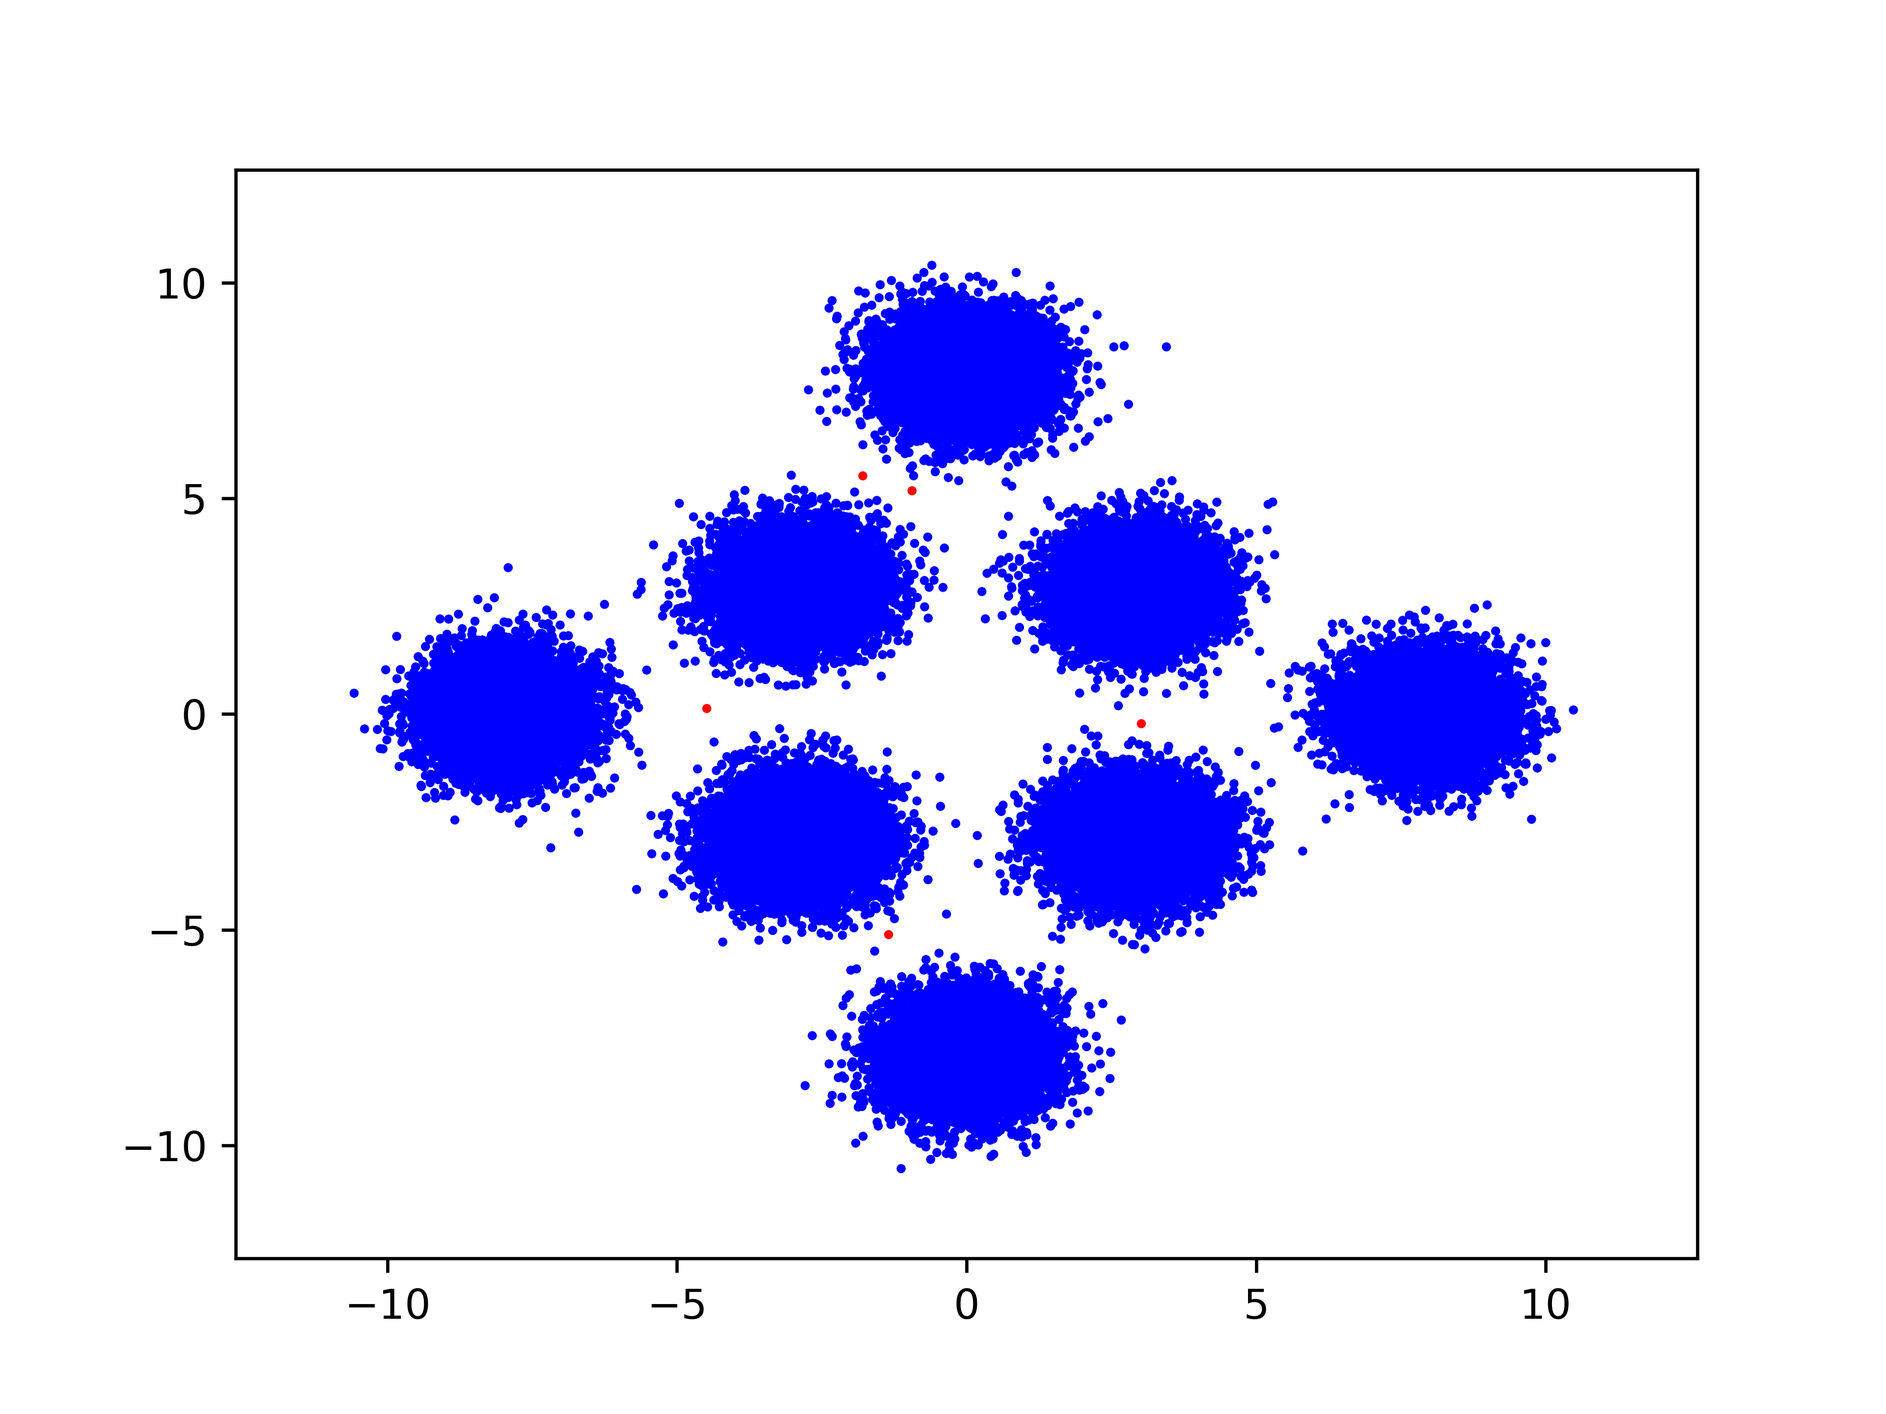
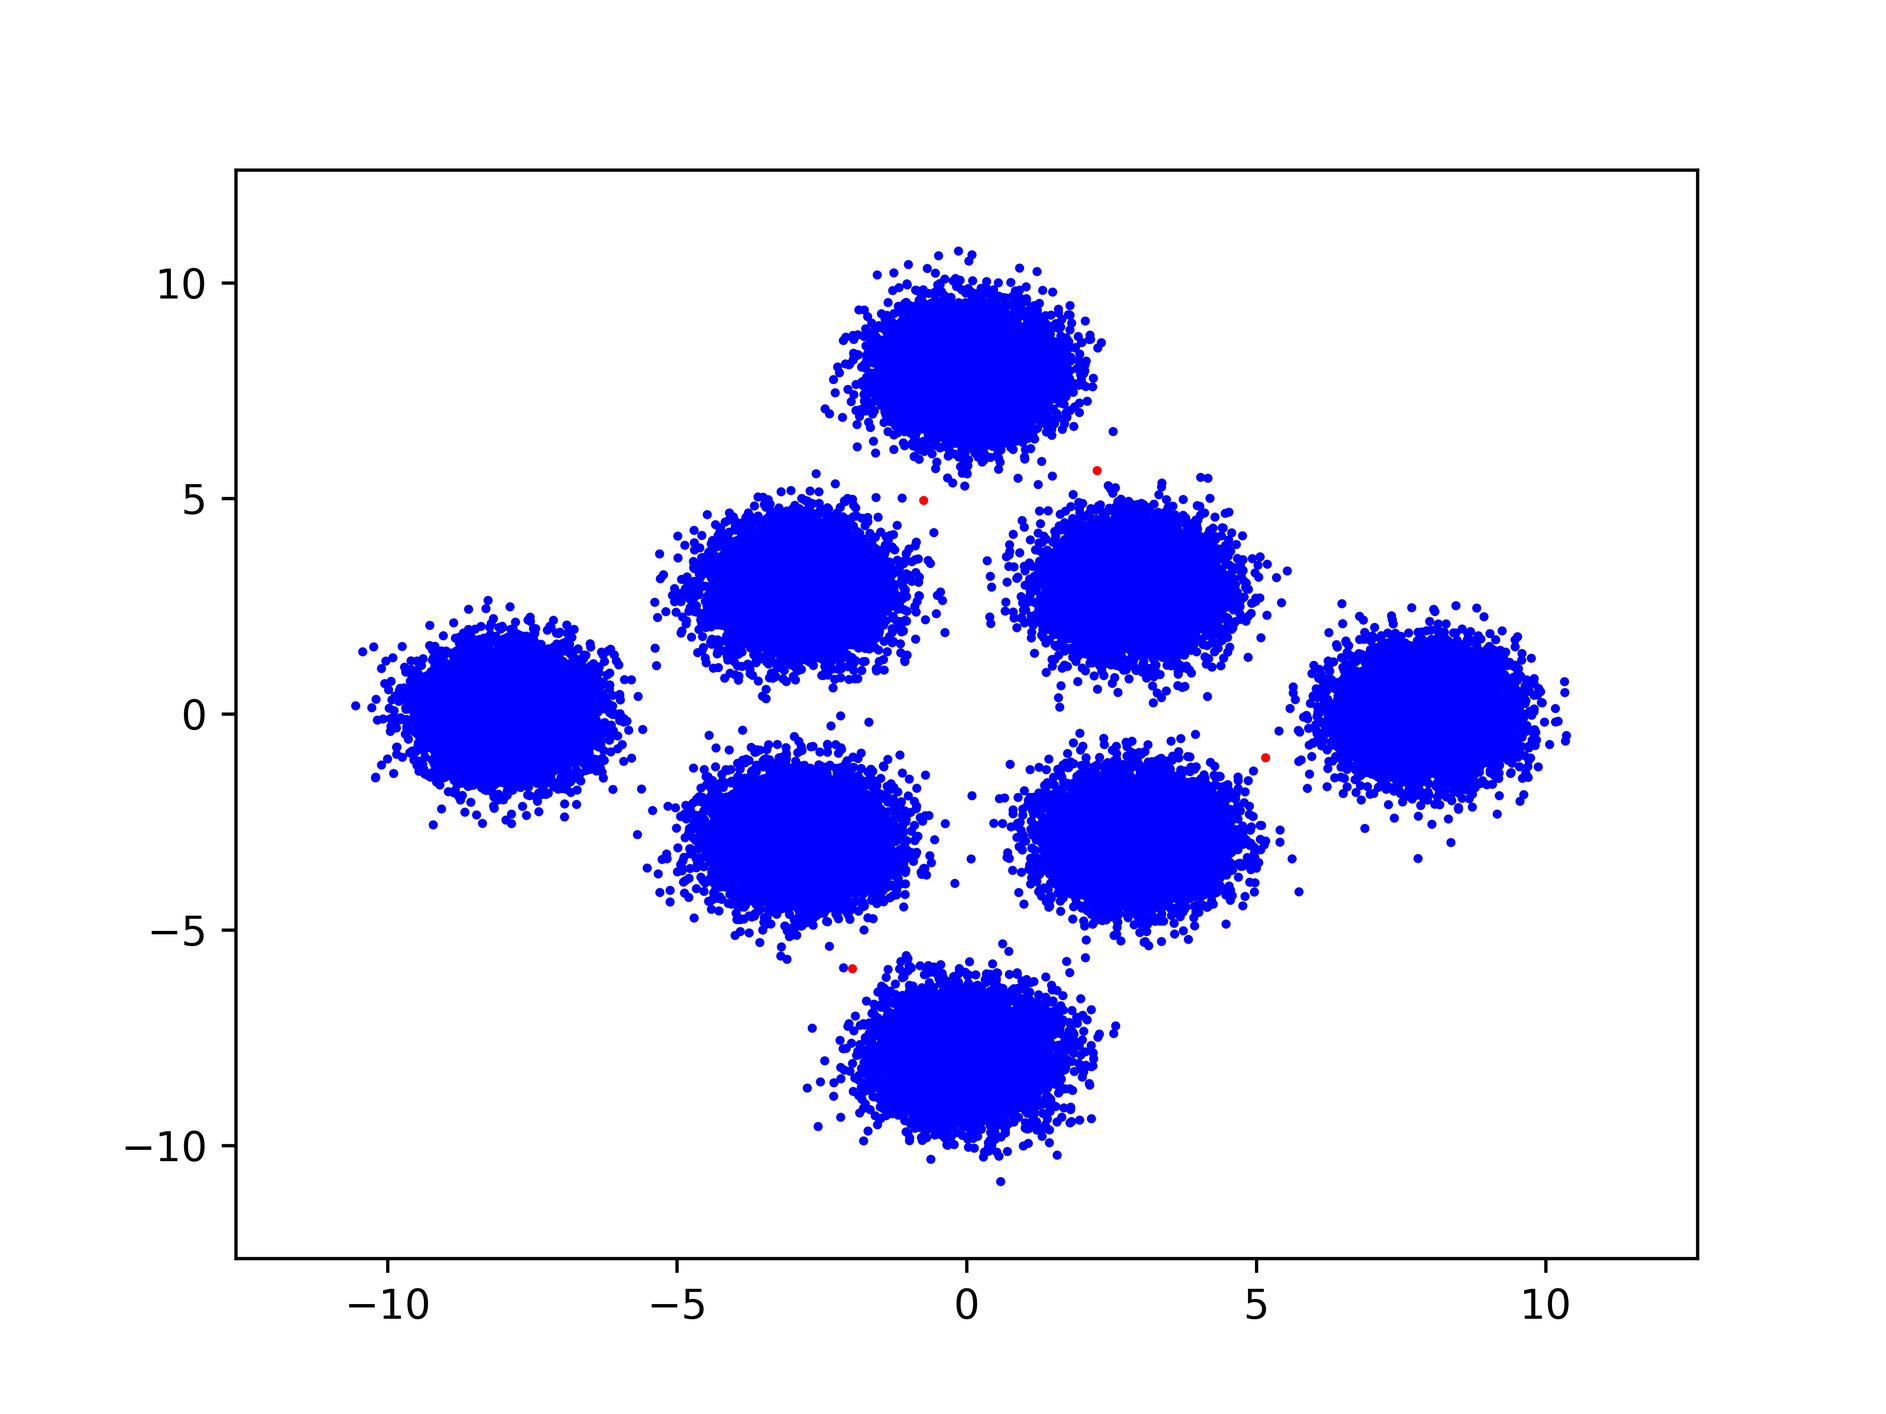
进一步完成了问题2 - 2加中继节点的任务

Changed region(s): [[0.1875, 0.1875, 0.8125, 0.8438], [0.5625, 0.2188, 0.5938, 0.3125], [0.8125, 0.4688, 0.8438, 0.5312]]

diff --git a/question2/question2_2.py b/question2/question2_2.py
@@ -4,9 +4,9 @@ from question2.my_util import read_population_economic_from_excel, read_distance
 from question2.road import Road
 
 
-def compute_population(a, b):
+def compute_joint_population(a, b):
     """
-    给出光纤连接的两个区域的人口数，计算光纤的人口比重
+    给出光纤连接的两个区域的人口数，两个区域的联合
     :param a:
     :param b:
     :return:
@@ -14,13 +14,13 @@ def compute_population(a, b):
     return math.sqrt(a * b)
 
 
-def compute_value(road):
+def compute_value(rd):
     """
     计算一条路的价值
-    :param road:
+    :param rd: Road对象
     :return:
     """
-    return road.weight * road.capacity * road.population
+    return rd.weight * rd.capacity * rd.population
 
 
 def get_capacity(length):
@@ -35,7 +35,7 @@ def get_capacity(length):
 
 
 def get_max_value_road(road_list):
-    value_list = np.array([compute_value(road) for road in road_list])
+    value_list = np.array([compute_value(a_road) for a_road in road_list])
     return road_list[value_list.argmax(axis=0)]
 
 
@@ -63,7 +63,7 @@ def convert_distance_to_level(length):
 
 if __name__ == '__main__':
     num_links = 33
-
+    triple_points_road_list = []  # 记录三个节点的路径所经过的每一个节点
     distance_matrix, city_list = read_distance_from_excel()
     print(city_list)
     city_population_list, city_gdp_aver_list = read_population_economic_from_excel()
@@ -71,7 +71,7 @@ if __name__ == '__main__':
     for i in range(len(city_population_list)):
         for j in range(i + 1, len(city_population_list)):
             city_pair_population_tuple_list.append((i, j, math.sqrt(city_population_list[i] * city_population_list[j])))
-    city_pair_population_tuple_list = sorted(city_pair_population_tuple_list, key=lambda item: item[2], reverse=True)
+    city_pair_population_tuple_list = sorted(city_pair_population_tuple_list, key=lambda pair: pair[2], reverse=True)
     print(city_pair_population_tuple_list)
     adj_matrix = [[0 for _ in range(12)] for _ in range(12)]  # 存储整个图的邻接矩阵
     all_road_info_list = []  # 保存所有路的信息的列表
@@ -83,7 +83,7 @@ if __name__ == '__main__':
             if i == j:
                 continue
             road = Road(start=i, end=j, weight=1, capacity=get_capacity(distance_matrix[i][j]),
-                        population=compute_population(city_population_list[i], city_population_list[j]))
+                        population=compute_joint_population(city_population_list[i], city_population_list[j]))
             all_road_info_list.append(road)
     # print("所有可能的路径:")
     # for item in sorted(all_road_info_list, key=lambda asd:compute_value(asd), reverse=True):
@@ -127,69 +127,111 @@ if __name__ == '__main__':
     print("为了满足连通图而架设的", len(cur_road_info_list), "条光纤如下所示：")
     for item in cur_road_info_list:
         print(city_list[item.start], city_list[item.end], compute_value(item))
-    print(len(cur_road_info_list), "条光纤的总价值之和为", sum([compute_value(item) for item in cur_road_info_list]))
-    print("邻接矩阵为:")
-    print(np.array(adj_matrix))
+    total_value = sum([compute_value(item) for item in cur_road_info_list])
+    print(len(cur_road_info_list), "条光纤的总价值之和为", total_value)
+    # print("邻接矩阵为:")
+    # print(np.array(adj_matrix))
     # for item in all_road_info_list:
     #     print(item)
     while len(cur_road_info_list) < num_links:
-        if_add_one_link = False  # 如果一次循环中没有加入任何的连接，说明再也不能加边，应该终止循环
-        print(len(cur_road_info_list))
-        for city_tuple_list in city_pair_population_tuple_list:
-            # 如果加入了一条边，就应该终止当前的循环，并且在城市对中删掉这一对城市
-            loop_flag = True  # for 的循环标志位
+        max_value_road = get_max_value_road(all_road_info_list)
+        print('当前连接个数为:', len(cur_road_info_list))
+        if_add_one_link = False  # 如果一次循环中没有加入任何的中转节点连接，则加入一条直接连接的边
+        city_tuple_list = city_pair_population_tuple_list[0]
+        # 获得当前城市对的两个城市编号，以及两个城市的联合人口权重
+        tmp_a, tmp_b, tmp_population = city_tuple_list[0], city_tuple_list[1], city_tuple_list[2]
+        # 如果当前城市对中两个城市已经直接连接，那么不需要再考虑中继节点,换下一组节点
+        while adj_matrix[tmp_a][tmp_b] == 1:
+            city_pair_population_tuple_list.remove(city_tuple_list)
+            city_tuple_list = city_pair_population_tuple_list[0]
             # 获得当前城市对的两个城市编号，以及两个城市的联合人口权重
             tmp_a, tmp_b, tmp_population = city_tuple_list[0], city_tuple_list[1], city_tuple_list[2]
-            # 如果当前城市对中两个城市已经直接连接，那么不需要再考虑中继节点
-            if adj_matrix[tmp_a][tmp_b] != 1:
-                print('查找', city_list[tmp_a], city_list[tmp_b], '是否有可能通过中继节点连接')
-                # 将两个城市间的直线距离映射到0,1,2,3
-                cur_distance_level = convert_distance_to_level(distance_matrix[tmp_a][tmp_b])
-                # 遍历12个城市，尝试查询中间节点
-                for middle in range(12):
-                    # 如果中间节点与这两个城市任意一个重复，换下一个中间节点
-                    if middle == tmp_a or middle == tmp_b:
-                        continue
-                    # 中间节点和a没有直接连接，和b有直接连接
-                    if adj_matrix[tmp_a][middle] != 1 and adj_matrix[tmp_b][middle] == 1:
-                        # a和middle、b和middle的直线距离级别必须都高于a和b之间的距离级别，才有加边的必要
-                        if convert_distance_to_level(distance_matrix[tmp_a][middle]) > cur_distance_level and convert_distance_to_level(distance_matrix[tmp_b][middle]) > cur_distance_level:
-                            # 从所有的路的列表中获得a和middle之间的路的信息
-                            road = get_road_from_list(tmp_a, middle, all_road_info_list)
-                            # 当前路列表加入一条
-                            cur_road_info_list.append(road)
-                            # 全部路列表中减去一条
-                            all_road_info_list.remove(road)
-                            print("加入", city_list[road.start], '-', city_list[road.end], '这条连接')
-                            adj_matrix[tmp_a][middle] = 1
-                            adj_matrix[middle][tmp_a] = 1
-                            # 加入了一条边之后，停止for循环
-                            loop_flag = False
-                            # 加入了一条边，删除这条边两端的城市组成的城市对
-                            city_pair_population_tuple_list.remove(city_tuple_list)
-                            if_add_one_link = True
-                            break
-                    # 中间节点和a有直接连接，和b没有直接连接
-                    if adj_matrix[tmp_a][middle] == 1 and adj_matrix[tmp_b][middle] != 1:
-                        # a和middle、b和middle的直线距离级别必须都高于a和b之间的距离级别，才有加边的必要
-                        if convert_distance_to_level(distance_matrix[tmp_a][middle]) > cur_distance_level and convert_distance_to_level(distance_matrix[tmp_b][middle]) > cur_distance_level:
-                            # 从所有的路的节点中获取middle和b之间的路的权重
-                            road = get_road_from_list(tmp_b, middle, all_road_info_list)
-                            # 当前路列表加入一条
-                            cur_road_info_list.append(road)
-                            # 全部路的列表删除这一条
-                            all_road_info_list.remove(road)
-                            print("加入", city_list[road.start], '-', city_list[road.end], '这条连接')
-                            adj_matrix[tmp_b][middle] = 1
-                            adj_matrix[middle][tmp_b] = 1
-                            # 加入了一条边之后，停止for循环
-                            loop_flag = False
-                            if_add_one_link = True
-                            # 加入了一条边，删除这条边两边的城市对
-                            city_pair_population_tuple_list.remove(city_tuple_list)
-                            break
-            if not loop_flag:
+        print('查找', city_list[tmp_a], city_list[tmp_b], '是否有可能通过中继节点连接')
+        # 将两个城市间的直线距离映射到0,1,2,3
+        cur_distance_level = convert_distance_to_level(distance_matrix[tmp_a][tmp_b])
+        # 遍历12个城市，尝试查询中间节点
+        for middle in range(12):
+            # 如果中间节点与这两个城市任意一个重复，换下一个中间节点
+            if middle == tmp_a or middle == tmp_b:
+                continue
+            # 判断这两个点是否和所有的中转路径中的任意两个点重复
+            if_triple_roads_occupy = False
+            for triple_road in triple_points_road_list:
+                # 如果这两个点和所有的中转路径中的任意两个点重复，不加这条路径
+                if (tmp_a in triple_road and middle in triple_road) or \
+                        (tmp_b in triple_road and middle in triple_road):
+                    # 如果重复，放弃对当前城市对的遍历
+                    if_triple_roads_occupy = True
+                    break
+            if if_triple_roads_occupy:
                 break
+            # 中间节点和a没有直接连接，和b有直接连接
+            if adj_matrix[tmp_a][middle] != 1 and adj_matrix[tmp_b][middle] == 1:
+                # a和middle、b和middle的直线距离级别必须都高于a和b之间的距离级别，才有加边的必要
+                if convert_distance_to_level(distance_matrix[tmp_a][middle]) > \
+                        cur_distance_level and convert_distance_to_level(distance_matrix[tmp_b][middle]) > \
+                        cur_distance_level:
+                    # 如果ab的人口数乘积大于a,middle人口数乘积，才加中继节点
+                    if compute_joint_population(city_population_list[tmp_a],
+                                                city_population_list[tmp_b]) > \
+                            compute_joint_population(city_population_list[tmp_a], city_population_list[middle]):
+                        # 从所有的路的列表中获得a和middle之间的路的信息
+                        road = get_road_from_list(tmp_a, middle, all_road_info_list)
+                        # 当前路列表加入一条
+                        cur_road_info_list.append(road)
+                        # 全部路列表中减去一条
+                        all_road_info_list.remove(road)
+                        print("加入", city_list[road.start], '-', city_list[road.end], '这条连接(有中继)\n')
+                        adj_matrix[tmp_a][middle] = 1
+                        adj_matrix[middle][tmp_a] = 1
+                        # 加入了一条边，删除这条边两端的城市组成的城市对
+                        city_pair_population_tuple_list.remove(city_tuple_list)
+                        triple_points_road_list.append([tmp_a, middle, tmp_b])
+                        # print('triple', triple_points_road_list)
+                        # 是否添加了一条边的标志位置为True
+                        if_add_one_link = True
+                        break
+            # 中间节点和a有直接连接，和b没有直接连接
+            if adj_matrix[tmp_a][middle] == 1 and adj_matrix[tmp_b][middle] != 1:
+                # a和middle、b和middle的直线距离级别必须都高于a和b之间的距离级别，才有加边的必要
+                if convert_distance_to_level(distance_matrix[tmp_a][middle]) > cur_distance_level and \
+                        convert_distance_to_level(distance_matrix[tmp_b][middle]) > cur_distance_level:
+                    if compute_joint_population(city_population_list[tmp_a],
+                                                city_population_list[tmp_b]) > \
+                            compute_joint_population(city_population_list[tmp_b], city_population_list[middle]):
+                        # 从所有的路的节点中获取middle和b之间的路的权重
+                        road = get_road_from_list(tmp_b, middle, all_road_info_list)
+                        # 当前路列表加入一条
+                        cur_road_info_list.append(road)
+                        # 全部路的列表删除这一条
+                        all_road_info_list.remove(road)
+                        print("加入", city_list[road.start], '-', city_list[road.end], '这条连接(有中继)\n')
+                        adj_matrix[tmp_b][middle] = 1
+                        adj_matrix[middle][tmp_b] = 1
+                        # 是否添加了一条边的标志位置为True
+                        triple_points_road_list.append([tmp_a, middle, tmp_b])
+                        # print('triple', triple_points_road_list)
+                        if_add_one_link = True
+                        # 加入了一条边，删除这条边两边的城市对
+                        city_pair_population_tuple_list.remove(city_tuple_list)
+                        break
         if not if_add_one_link:
-            break
-    print('目前地图中一共有', len(cur_road_info_list), '条边')
+            ab_road = get_road_from_list(tmp_a, tmp_b, all_road_info_list)
+
+            if compute_value(ab_road) > compute_value(max_value_road):
+                print("加入", city_list[ab_road.start], '-', city_list[ab_road.end], '这条连接(直接连接)\n')
+                # 在城市对删除这一对
+                city_pair_population_tuple_list.remove(city_tuple_list)
+                # 在邻接矩阵中表明这两个点已经连接
+                adj_matrix[ab_road.start][ab_road.end] = 1
+                adj_matrix[ab_road.end][ab_road.start] = 1
+                cur_road_info_list.append(ab_road)
+                all_road_info_list.remove(ab_road)
+            else:
+                print("加入", city_list[max_value_road.start], '-', city_list[max_value_road.end], '这条连接(直接连接)\n')
+                # 在邻接矩阵中表明这两个点已经连接
+                adj_matrix[max_value_road.start][max_value_road.end] = 1
+                adj_matrix[max_value_road.end][max_value_road.start] = 1
+                cur_road_info_list.append(max_value_road)
+                all_road_info_list.remove(max_value_road)
+    print('\n目前地图中一共有', len(cur_road_info_list), '条边\n')

diff --git a/question2/test.py b/question2/test.py
@@ -1,0 +1,25 @@
+from question2.my_util import read_population_economic_from_excel
+import math
+
+
+city_population_list, _ = read_population_economic_from_excel()
+double_city_population = []
+quadra_city_population = []
+for i in range(len(city_population_list)):
+    for j in range(i + 1, len(city_population_list)):
+        double_city_population.append(math.sqrt(city_population_list[i] * city_population_list[j]))
+
+for i in range(len(city_population_list)):
+    for j in range(i + 1, len(city_population_list)):
+        for k in range(j + 1, len(city_population_list)):
+            for n in range(k + 1, len(city_population_list)):
+                tmp_city_list = [i, j, k, n]
+                tmp_value_list = []
+                for p in range(len(tmp_city_list)):
+                    for q in range(p + 1, len(tmp_city_list)):
+                        tmp_value_list.append(math.sqrt(city_population_list[tmp_city_list[p]] *
+                                                                city_population_list[tmp_city_list[q]]))
+                quadra_city_population.append(sum(tmp_value_list))
+
+print(sorted(double_city_population, reverse=True))
+print(sorted(quadra_city_population))

diff --git a/question2/question2_1.py b/question2/question2_1.py
@@ -41,7 +41,7 @@ def get_max_value_road(road_list):
 
 def get_road_from_list(x, y, road_list):
     for one_road in road_list:
-        if item.start == x and item.end == y:
+        if one_road.start == x and one_road.end == y:
             return one_road
 
 
@@ -95,6 +95,7 @@ if __name__ == '__main__':
                     part_b.remove(max_value_road.end)
                 elif max_value_road.start in part_b:
                     part_a.append(max_value_road.start)
+
                     part_b.remove(max_value_road.start)
                 cur_road_info_list.append(max_value_road)
                 all_road_info_list.remove(max_value_road)

diff --git a/question2/road.py b/question2/road.py
@@ -5,3 +5,6 @@ class Road(object):
         self.weight = weight
         self.capacity = capacity
         self.population = population
+
+    def __str__(self):
+        return '(' + str(self.start) + ', ' + str(self.end) + ')'

diff --git a/question1/question1_1.py b/question1/question1_1.py
@@ -96,7 +96,6 @@ def get_source_data(num_standard_points):
         sk2 = None
     return base_points, base_points_info, sk2
 
-
 def nearest(point, targets):
     """
     计算距离最近的点
